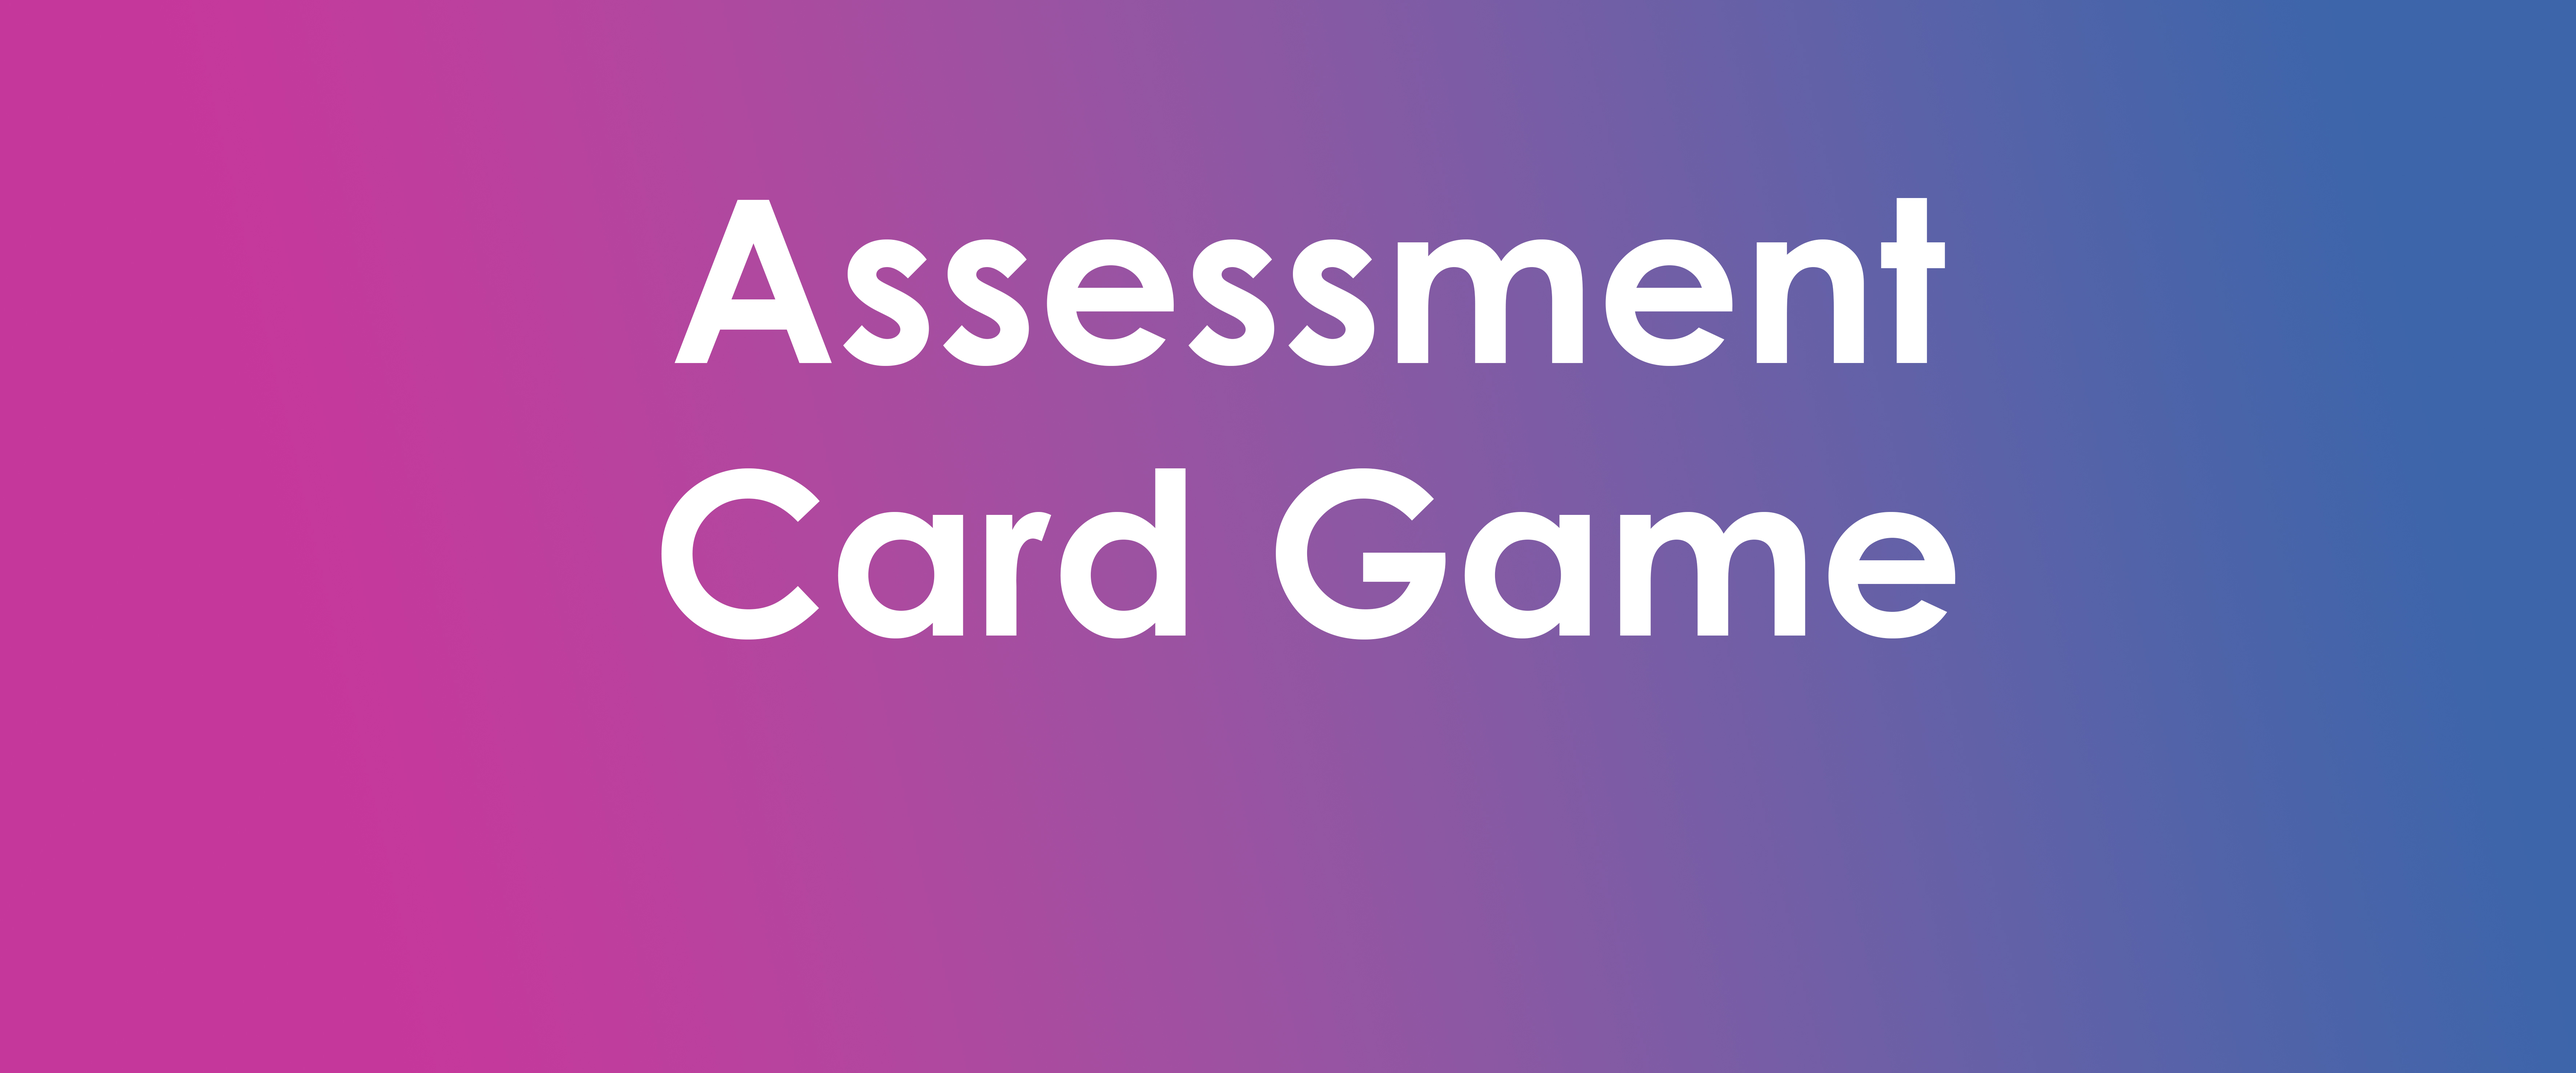
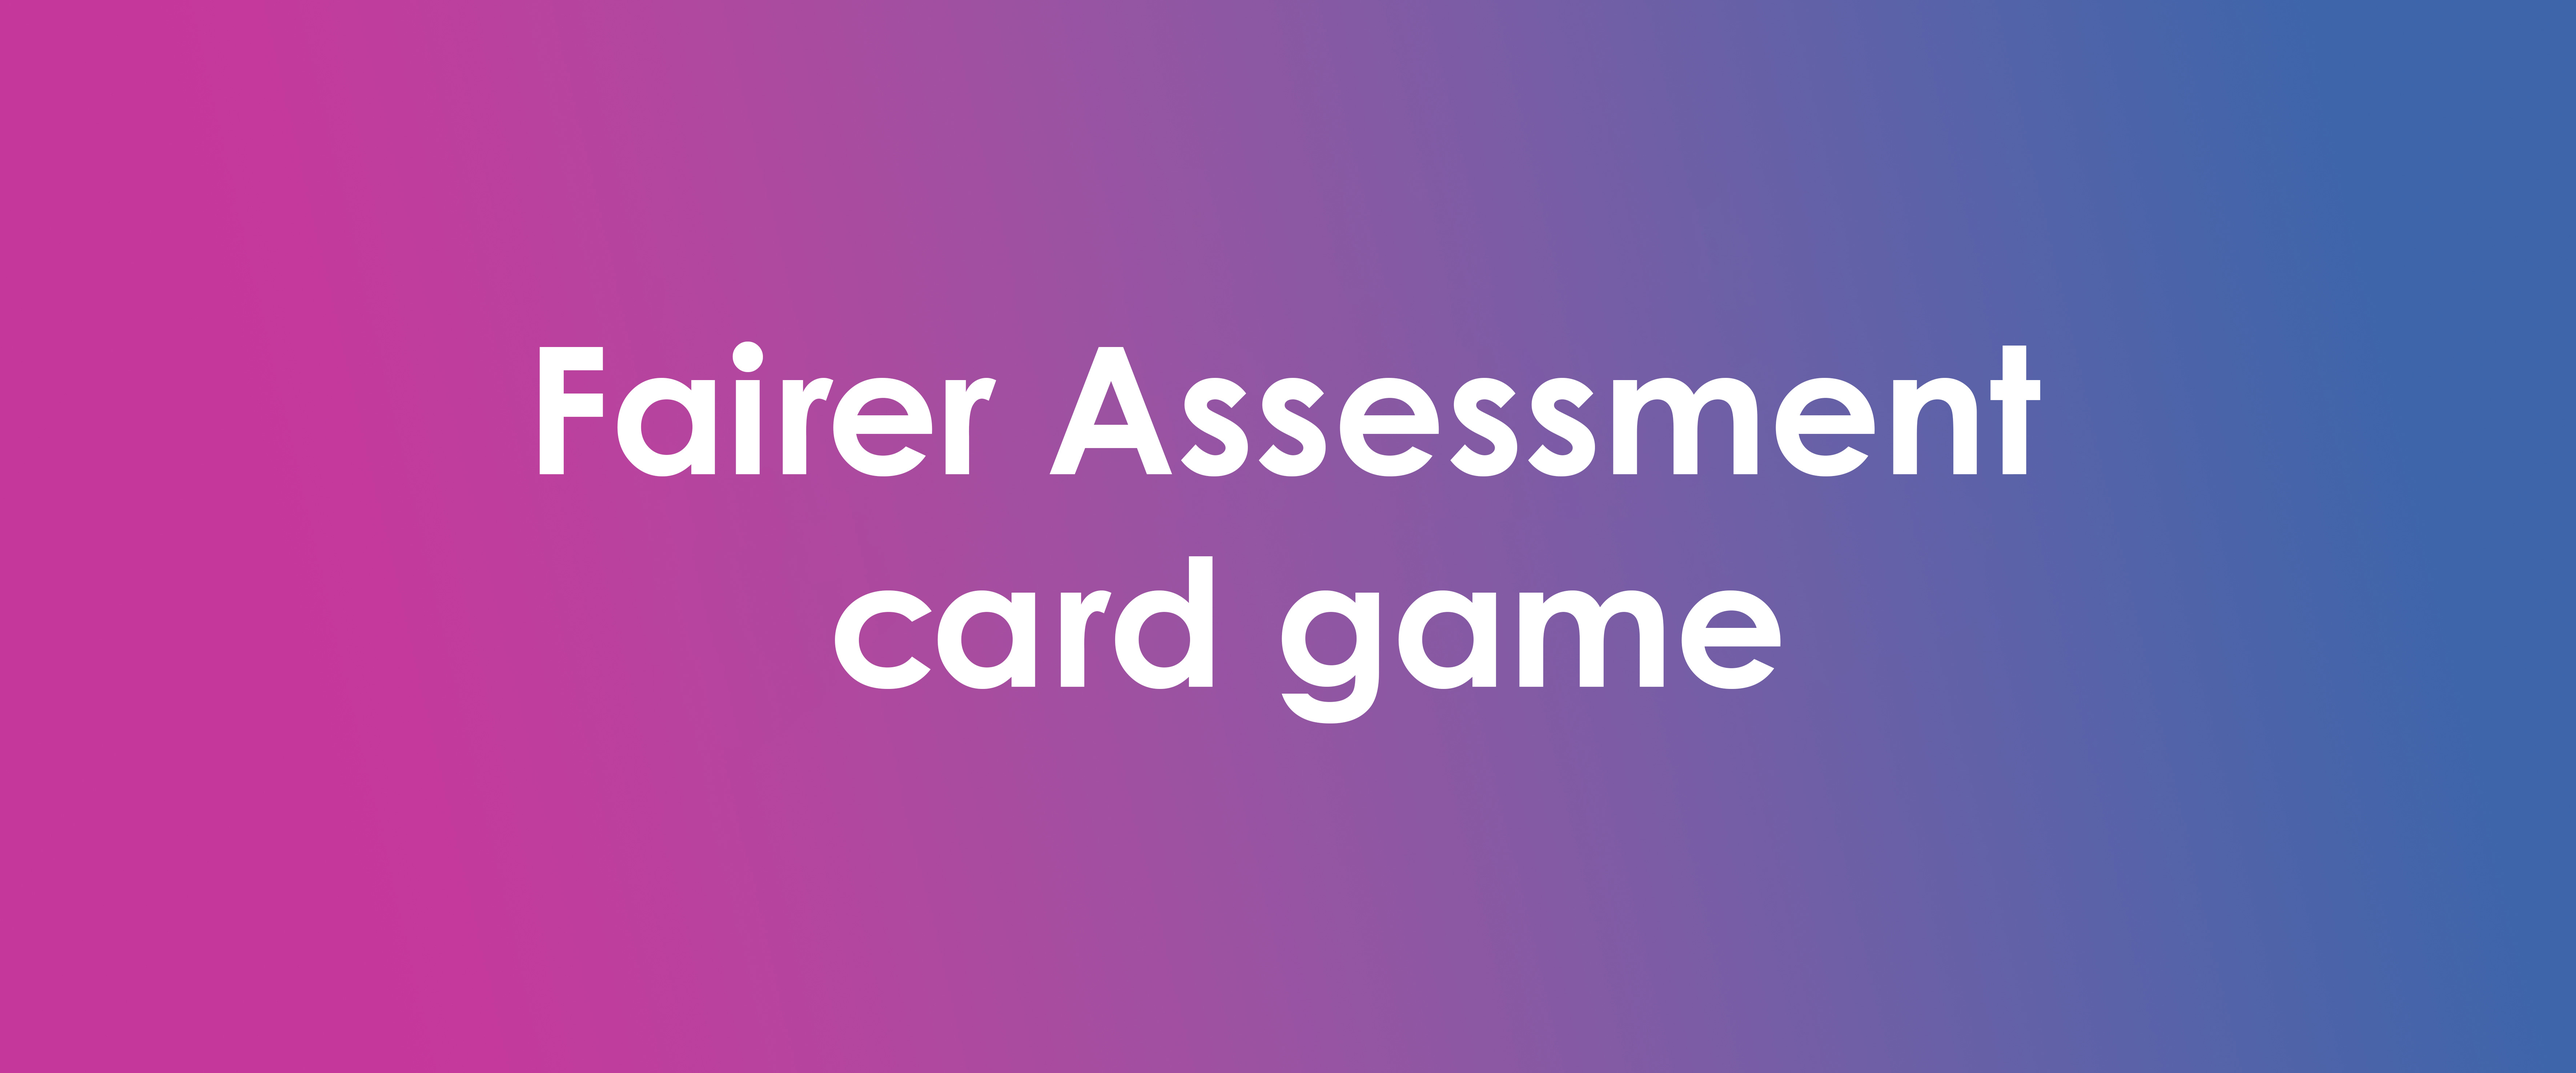
Add files via upload

Changed region(s): [[0.1871, 0.1869, 0.8108, 0.6854]]

diff --git a/index.html b/index.html
@@ -14,10 +14,9 @@
 	<div class="sidebar"> 
 		<h1> Menu </h1>
 		<br>
-		<p id="homeLink"><a href="#">Home</a></p>
+		<p id="homeLink"><a href="#">Start the game!</a></p>
+		<p data-card='{"text": "<h3>Instructions</h3><p>1. Gather all info you have about your course. This can be plans, comment, limitations or opportunities.</p><p>2. Draw your first card by clicking the -Draw a card!- button below.</p><p>3. Read the question on top of the card. Then read the text to give more context to the question.</p><p>4.Think of an answer to the question. Document your thoughts with rest of your course planning material.</p><p>5. Draw two more cards and play them through. End up having more solid arguments and foundation for your assessment!</p><h3> Backgroud Legend</h3><p> Red = Fairer Communication</p><p> Green = Fairer Interaction</p><p> Blue = Fairer Approach</p>", "category": "D"}'><a href="#" class="sidebar-link">Instructions</a></p>
 		<p data-card='{"text": "<h3>Fairness in Assessment</h3><p2>Assessment is an inevitable and crucial part of the teaching practice employed with different intentions, including recognising individual strengths and challenges, keeping track on progress towards proficiency and assigning grades. Understanding what students have learned is vital for devising effective teaching that facilitates genuine learning. The evolution of assessment strategies in higher education that promotes integration of assessment and instruction, underscores a viewpoint which focuses on engaged students, encouraging shared responsibility, reflection, collaboration and ongoing dialogue with the teacher. This new turn calls for moving beyond quantitative grading of merely regurgitated knowledge and pushes towards a deeper understanding of the fundamental role of assessment in the learning process. This includes adopting the methods that reveal individual learning trajectories and how well the learning outcomes have been attained. Assessment is a nuanced and complex activity that needs to take multiple factors in consideration: context, academic level, learning environment, students’ background, individual differences and learning content. Adequate, open and fair assessment can benefit both students as well as teachers. Consequently, assessment literacy is gaining recognition as a core teacher competency.</p2><br><br><p2>As an essential quality of assessment, fairness has been consistently emphasised as an important element of teachers’ assessment literacy. Fairness is seen as a context-dependent multidimensional concept that is influenced by teaching, learning, assessment and classroom interactions, and it is significant to students and teachers alike. In the real-world scenarios, the fairness is habitually interpreted and enacted from two often conflicting perspectives resulting from the difference in fairness perception of the teacher and of the student. Research has shown that fair assessment practices are associated with positive learning outcomes, including cognitive learning and self-efficacy of students.</p2><br><br><p2>Despite the recognised critical importance of fair assessment in teaching, teachers frequently report a lack of sufficient preparation for the task during their education, often predominantly relying on their own experience. To tackle this issue, based on findings from education research, we have developed the Fairness in Assessment Prompt Card Game which can serve as a reflective tool for teachers to evaluate and a prompt to improve their own assessment practices focusing on fairness.</p2><br><br><p2>The inspiration for the game comes from a selection of research papers[1] dealing with topics of fairness and assessment in higher education. A working theoretical scaffold was designed, cross referencing the article frameworks with a focus on fairness in assessment, which yielded a pool of questions as well as three relevant final themes: fairer communication, fairer interaction and fairer approach. A selected set of questions combined with a justice enactment strategy[2] provided a design framework for generating questions which aided in formulating particular teaching situations that were then used as the card content.</p2><br><br><p2>[1] See the reference list[2] Estaji & Zhaleh, 2022</p2>", "category": "D"}'><a href="#" class="sidebar-link">Fairness in Assessment</a></p>
-		<p data-card='{"text": "<h3> Start playing</h3><p>To start playing, click the<br>-Draw a card!-<br> button under this card</p><br><br><br><br><h3> Backgroud Legend</h3><p> Red = Fairer Communication</p><p> Green = Fairer Interaction</p><p> Blue = Fairer Approach</p>", "category": "D"}'><a href="#" class="sidebar-link">Start playing</a></p>
-		<p data-card='{"text": "<h3>Instructions</h3><p>1. Gather all info you have about your course. This can be plans, comment, limitations or opportunities.</p><p>2. Draw your first card.</p><p>3. Read the question on top of the card. Then read the text to give more context to the question.</p><p>4.Think of an answer to the question. Document your thoughts with rest of your course planning material.</p><p>5. Draw two more cards and play them through. End up having more solid arguments and foundation for your assessment!</p>", "category": "D"}'><a href="#" class="sidebar-link">Instructions</a></p>
 		<p data-card='{"text": "<h3>References</h3><p2>Brown, S., & Race, P. (2012). Using effective assessment to promote learning. In L. Hunt & D. Chalmers (Eds.), University Teaching in Focus (0 ed., pp. 74–91). Routledge. https://doi.org/10.4324/9780203079690-5 </p2><br><br><p2>Dochy, F., Segers, M., & Sluijsmans, D. (1999). The use of self-, peer and co-assessment in higher education: A review. Studies in Higher Education, 24(3), 331–350. https://doi.org/10.1080/03075079912331379935</p2><br><br><p2>Estaji, M., & Zhaleh, K. (2022). The Enactment of Classroom Justice Through Explicit Instruction: Deciphering the Changes in English as a Foreign Language Teachers’ Perceptions and Practices. Frontiers in Psychology, 13. https://www.frontiersin.org/articles/10.3389/fpsyg.2022.821763 </p2><br><br><p2>Fairness in Assessment Questionaire in Quality Assurance Framework for Education (QAFE), Education quality reference guides. (2022). Université du Luxembourg. https://www.uni.lu/wp-content/uploads/sites/9/2023/08/EQM-guide-Fairness-in-Assessment_20220614_f.pdf</p2><br><br><p2>Rasooli, A., Razmjoee, M., Cumming, J., Dickson, E., & Webster, A. (2021). Conceptualising a Fairness Framework for Assessment Adjusted Practices for Students with Disability: An Empirical Study. Assessment in Education: Principles, Policy & Practice, 28(3), 301–321. https://doi.org/10.1080/0969594X.2021.1932736</p2><p2>Rasooli, A., Zandi, H., & DeLuca, C. (2018). Re-conceptualizing classroom assessment fairness: A systematic meta-ethnography of assessment literature and beyond. Studies in Educational Evaluation, 56, 164–181. https://doi.org/10.1016/j.stueduc.2017.12.008</p2><br><br><p2>Rezai, A. (2022). Fairness in classroom assessment: Development and validation of a questionnaire. Language Testing in Asia, 12(1), 17. https://doi.org/10.1186/s40468-022-00162-9</p2><br><br><p2>Sonnleitner, P., & Kovacs, C. (2020). Differences Between Students’ and Teachers’ Fairness Perceptions: Exploring the Potential of a Self-Administered Questionnaire to Improve Teachers’ Assessment Practices. Frontiers in Education, 5. https://www.frontiersin.org/articles/10.3389/feduc.2020.00017 </p2><br><br><p2>Vallade, J., Martin, M., & Weber, K. (2014). Academic Entitlement, Grade Orientation, and Classroom Justice as Predictors of Instructional Beliefs and Learning Outcomes. Communication Quarterly, 62. https://doi.org/10.1080/01463373.2014.949386 </p2>", "category": "D"}'><a href="#" class="sidebar-link">References</a></p>
 	</div>
         <div class="card-container">

diff --git a/styles.css b/styles.css
@@ -113,7 +113,6 @@ body {
 	
 	
 
-
 /* Set custom background images for different categories */
 .card-back.category-A {
     background-image: url('category-a-image.jpg');
